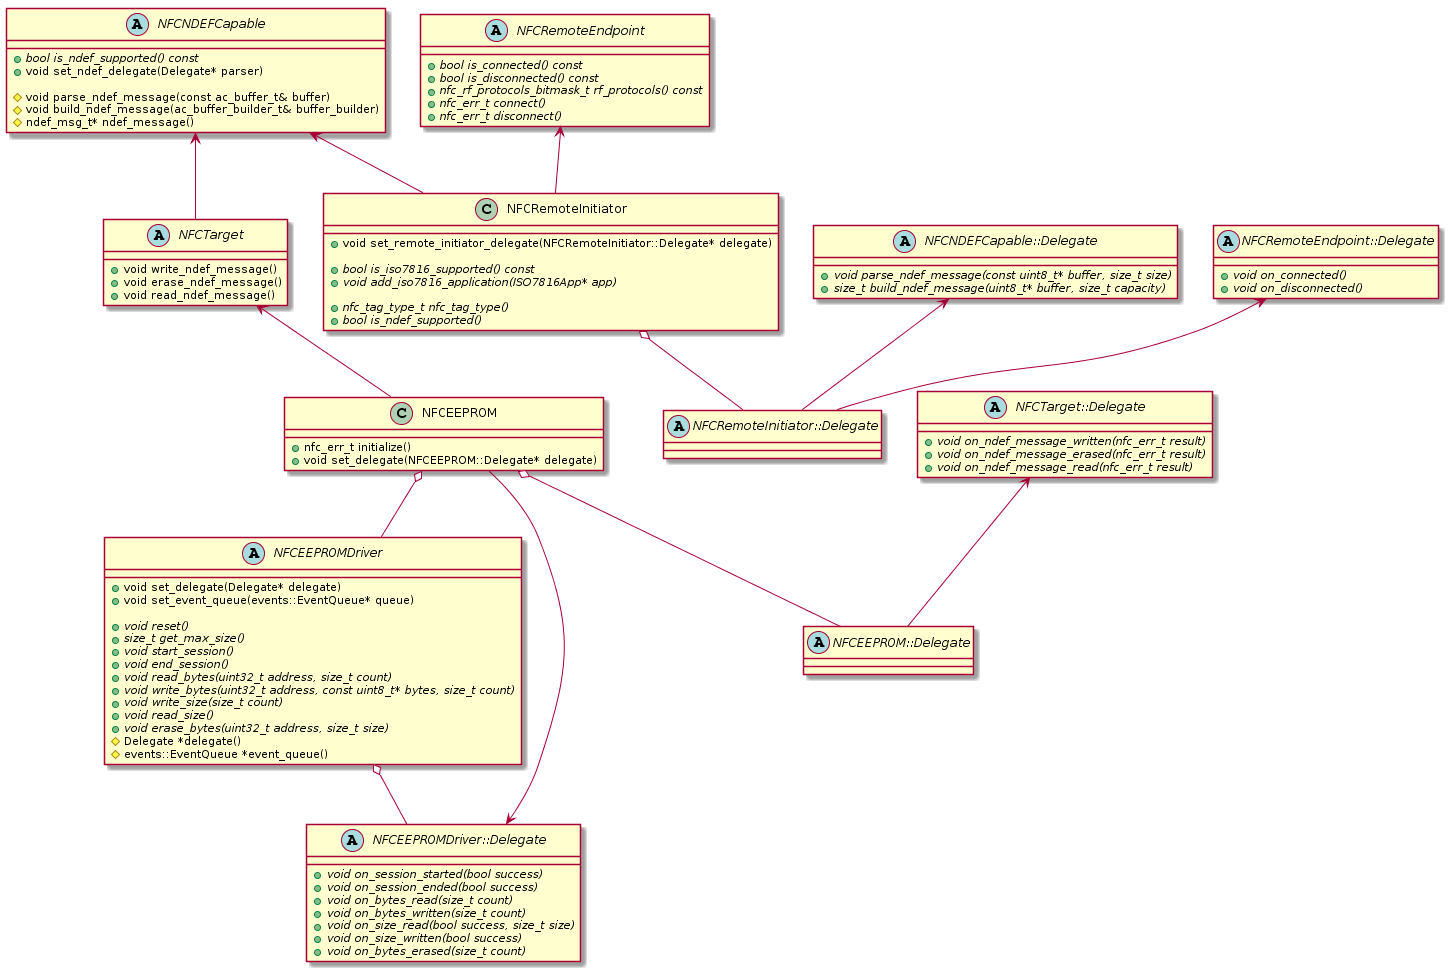
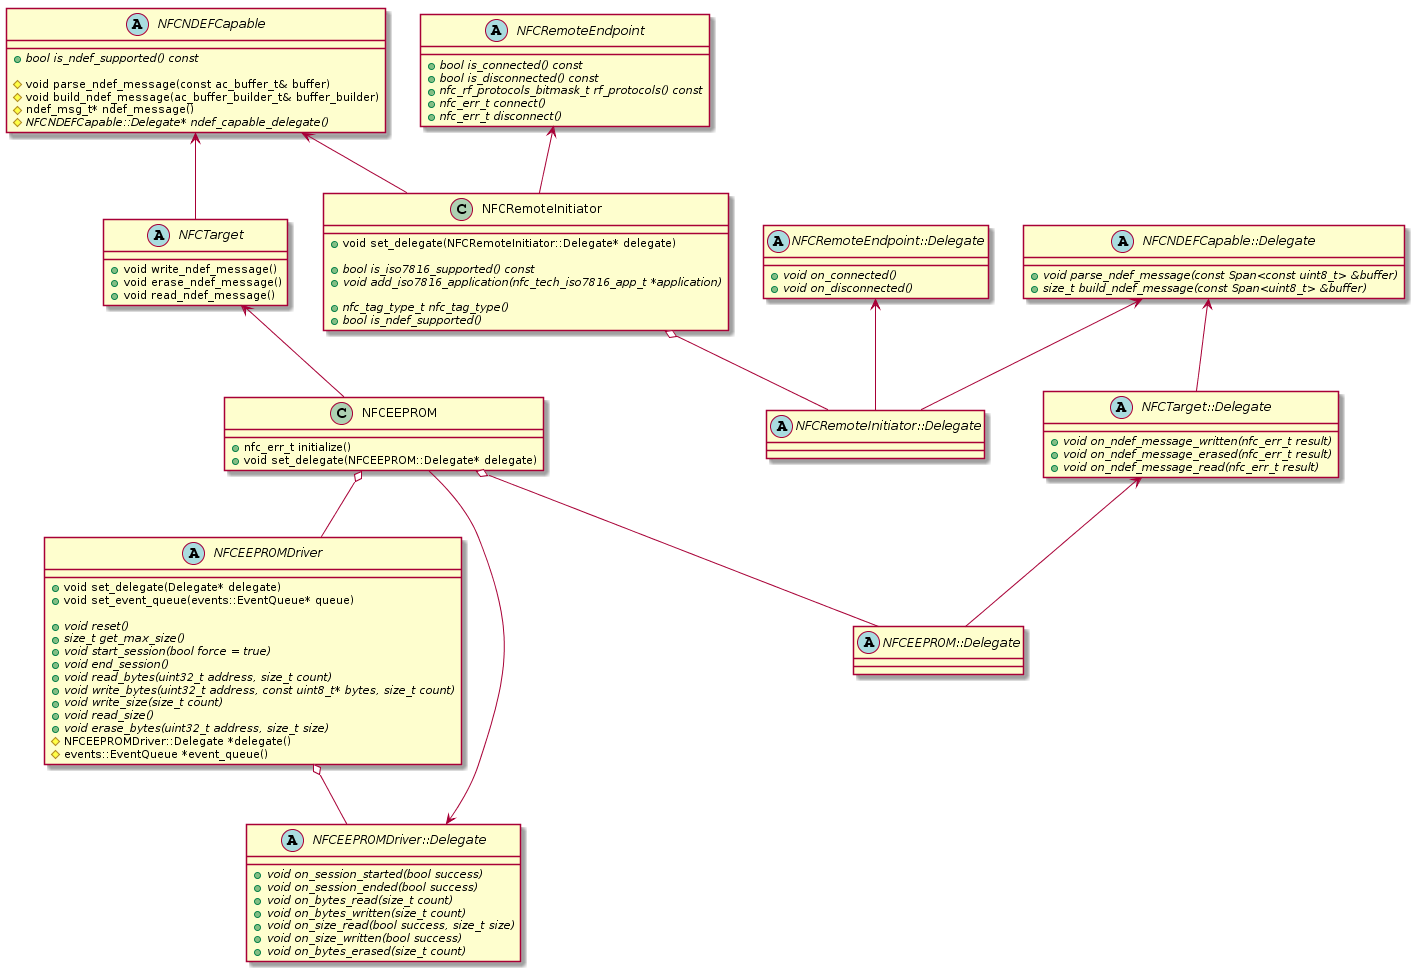
Update based on few tweaks to the API

diff --git a/docs/design-documents/nfc/nfc_design.md b/docs/design-documents/nfc/nfc_design.md
@@ -160,6 +160,12 @@ The `NFCController` class is the entrypoint into NFC for the user.
 
 When NCI integration is complete (phase 2), this class will be able to drive a `NCIDriver` instance. For now, the one controller we support is the PN512, which implements the `NFCControllerDriver` class. This class is specific to the current MicroNFC release.
 
+```cpp
+NFCController(NFCControllerDriver *driver, events::EventQueue *queue, const Span<uint8_t> &ndef_buffer);
+```
+
+The user instantiates the `NFCController` class using a driver, an event queue used for asynchronous operations and a scratch buffer used for NDEF processing.
+
 It offers the following methods:
 
 ```cpp
@@ -314,8 +320,6 @@ The class is constructed using a scratch buffer which is used to encode and/or d
 
 ```cpp
 bool is_ndef_supported() const;
-
-void set_ndef_delegate(Delegate* delegate);
 ```
 
 API used by descendant classes:
@@ -326,18 +330,23 @@ void build_ndef_message(ac_buffer_builder_t& buffer_builder);
 ndef_msg_t* ndef_message();
 ```
 
+API implemented by descendant classes:
+```cpp
+virtual NFCNDEFCapable::Delegate* ndef_capable_delegate();
+```
+
 **Delegate**
 
 The instance receives requests to encode and decode NDEF messages, and the user can choose how to handle them using the relevant builders and parsers.
 
 ```cpp
-void parse_ndef_message(const uint8_t* buffer, size_t size);
+void parse_ndef_message(const Span<const uint8_t> &buffer);
 ```
 
 The user receives the encoded NDEF message for processing.
 
 ```cpp
-size_t build_ndef_message(uint8_t* buffer, size_t capacity);
+size_t build_ndef_message(const Span<uint8_t> &buffer);
 ```
 
 The user can encode a NDEF message in the buffer provided and return its size (or 0).
@@ -363,11 +372,11 @@ nfc_tag_type_t nfc_tag_type();
 
 Additionally, the user can recover the type of NFC tag (1 to 5) being emulated. Type 4 is implemented on either one of two technologies; therefore, this enum both includes type 4a and type 4b to identify the underlying technology.
 
-*Note: This is initially out of scope for the initial release*
+*Note: ISO7816 is only used internally for the initial release*
 
 ```cpp
 bool is_iso7816_supported();
-void add_iso7816_application(ISO7816App* app);
+void add_iso7816_application(nfc_tech_iso7816_app_t *application);
 ```
 
 If the underlying technology supports it (ISO-DEP), the user can emulate a contactless smartcard and register ISO7816-4 applications using this API.
@@ -409,7 +418,7 @@ The `NFCEEPROM` class derives from `NFCTarget` and shares the same API. The user
 
 #### NFC remote target
 
-*Note: This is initially out of scope for the initial release*
+*Note: This is out of scope for the initial release*
 
 The `NFCRemoteTarget` class derives from `NFCTarget` and additionally from `NFCRemoteEndpoint`.
 
@@ -593,7 +602,7 @@ The `set_size()` command is called to change the size of the NDEF buffer (within
 ```cpp
 void reset();
 size_t get_max_size();
-void start_session();
+void start_session(bool force = true);
 void end_session();
 void read_bytes(uint32_t address, size_t count);
 void write_bytes(uint32_t address, const uint8_t* bytes, size_t count);
